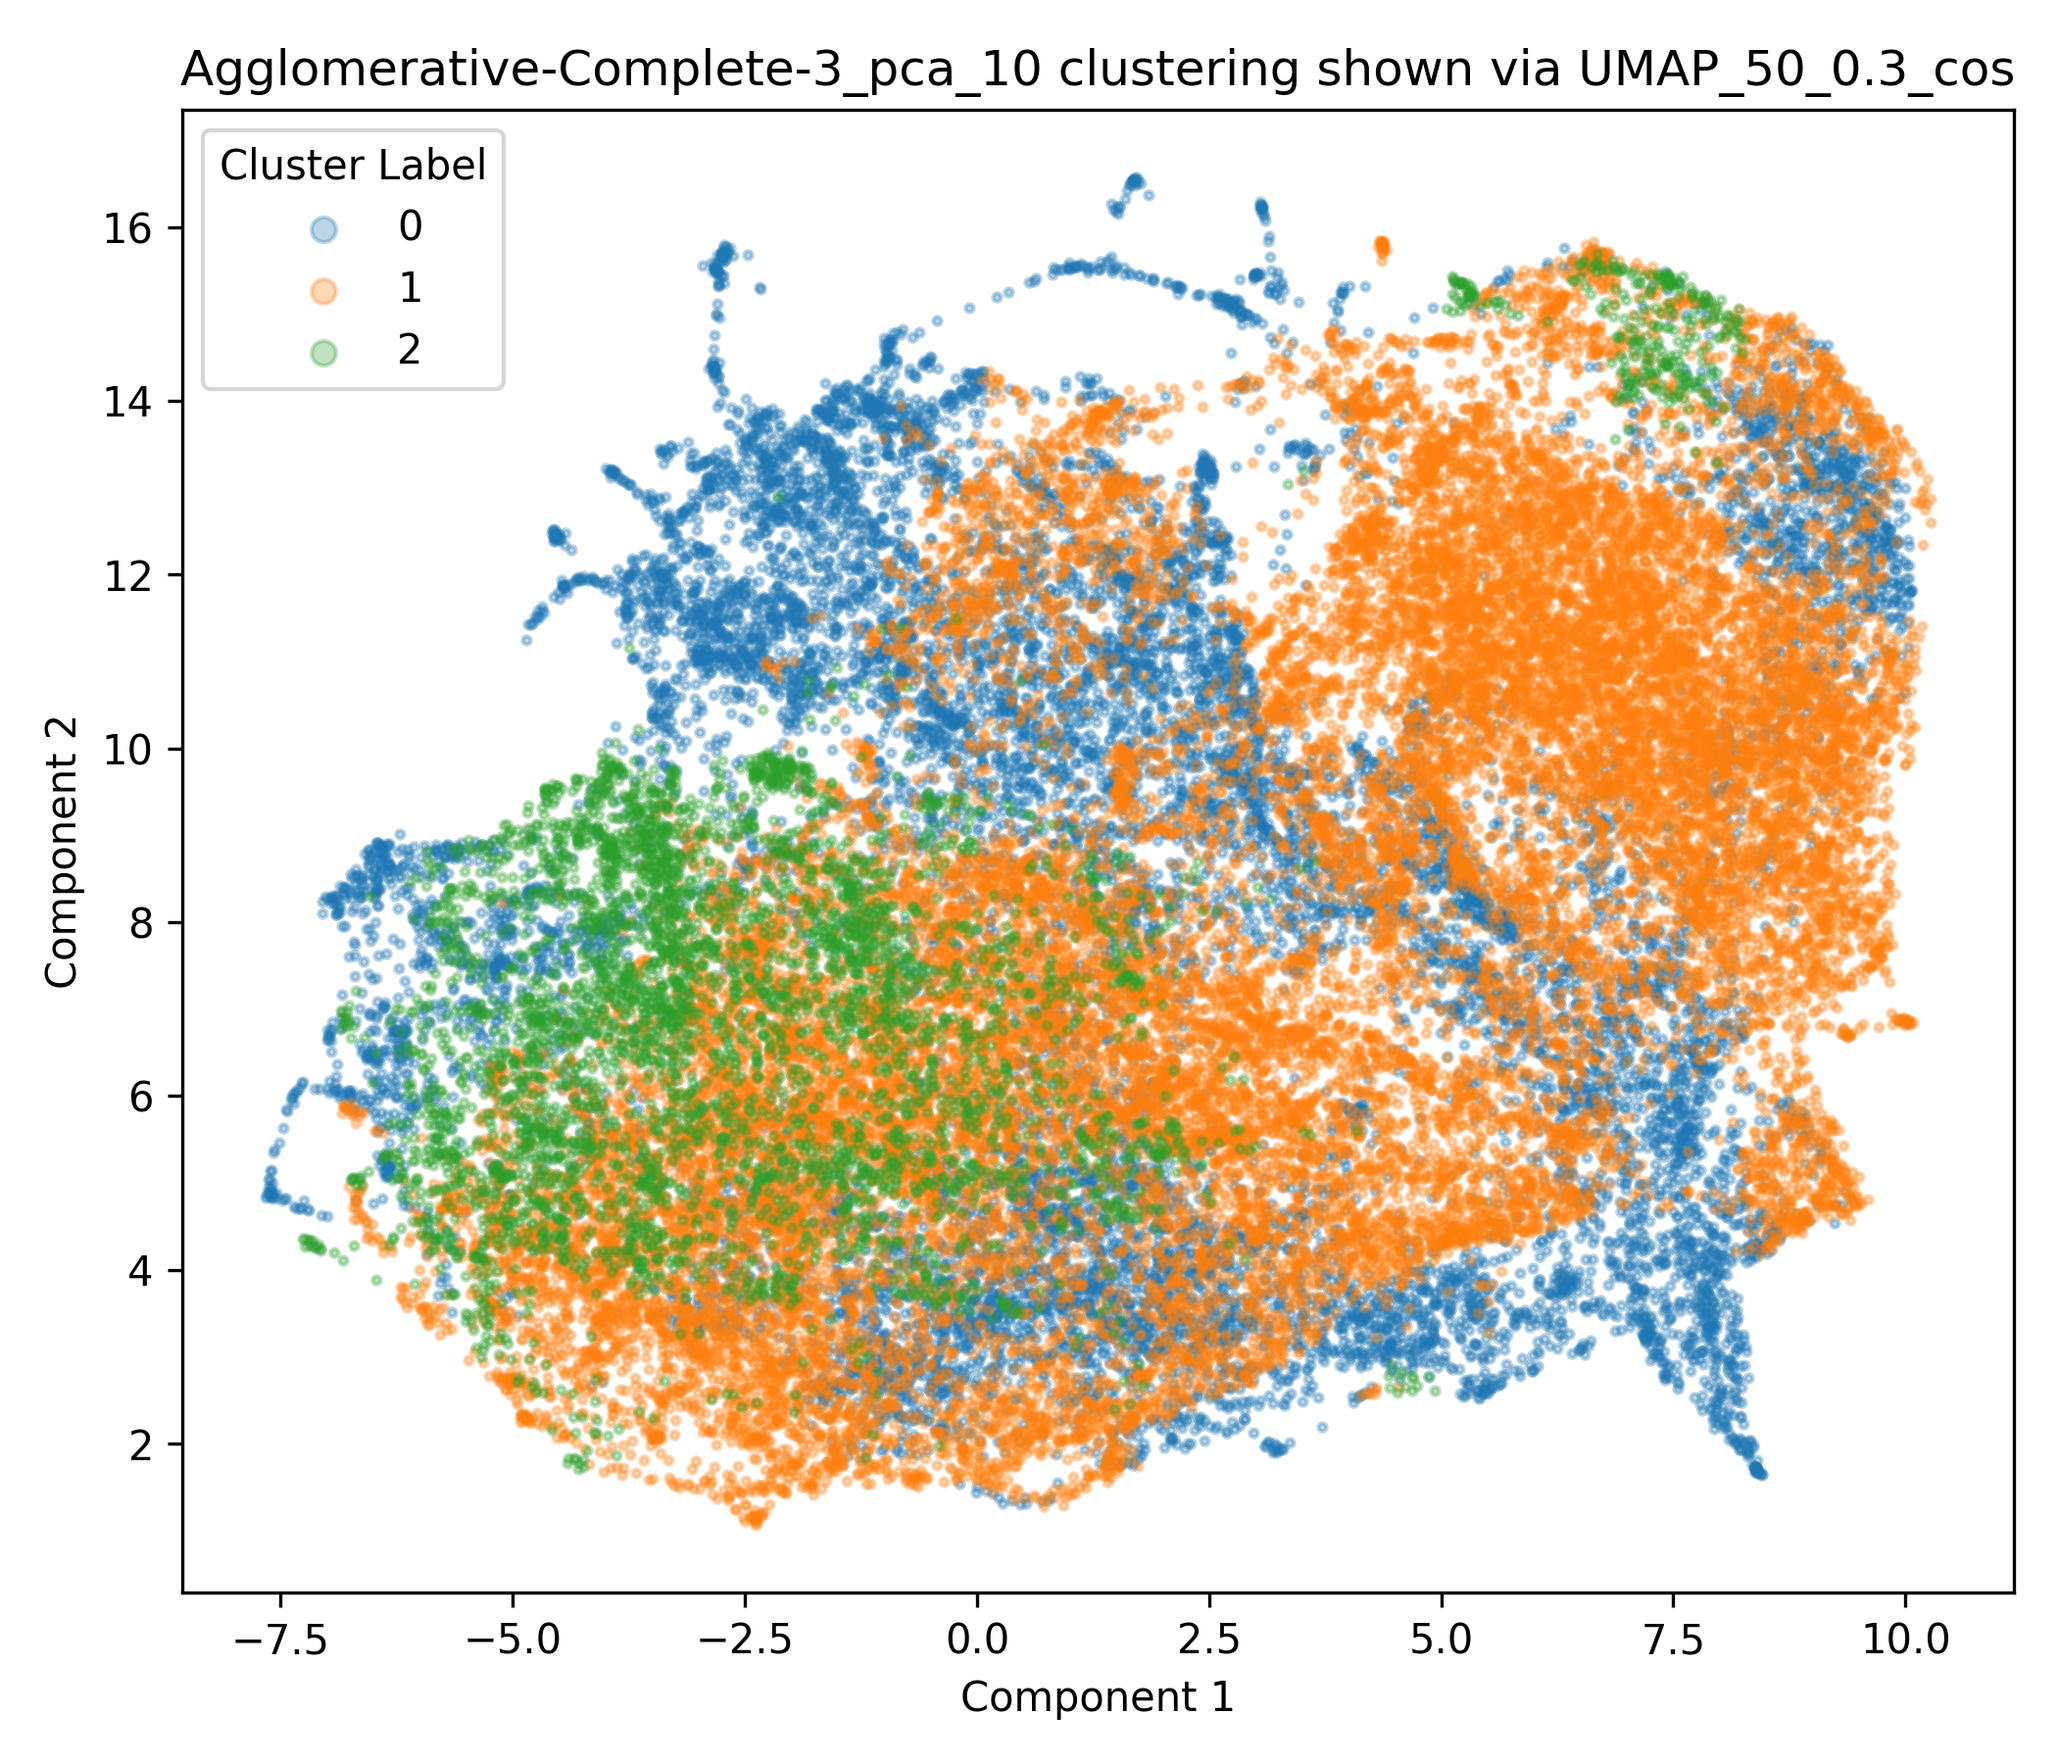
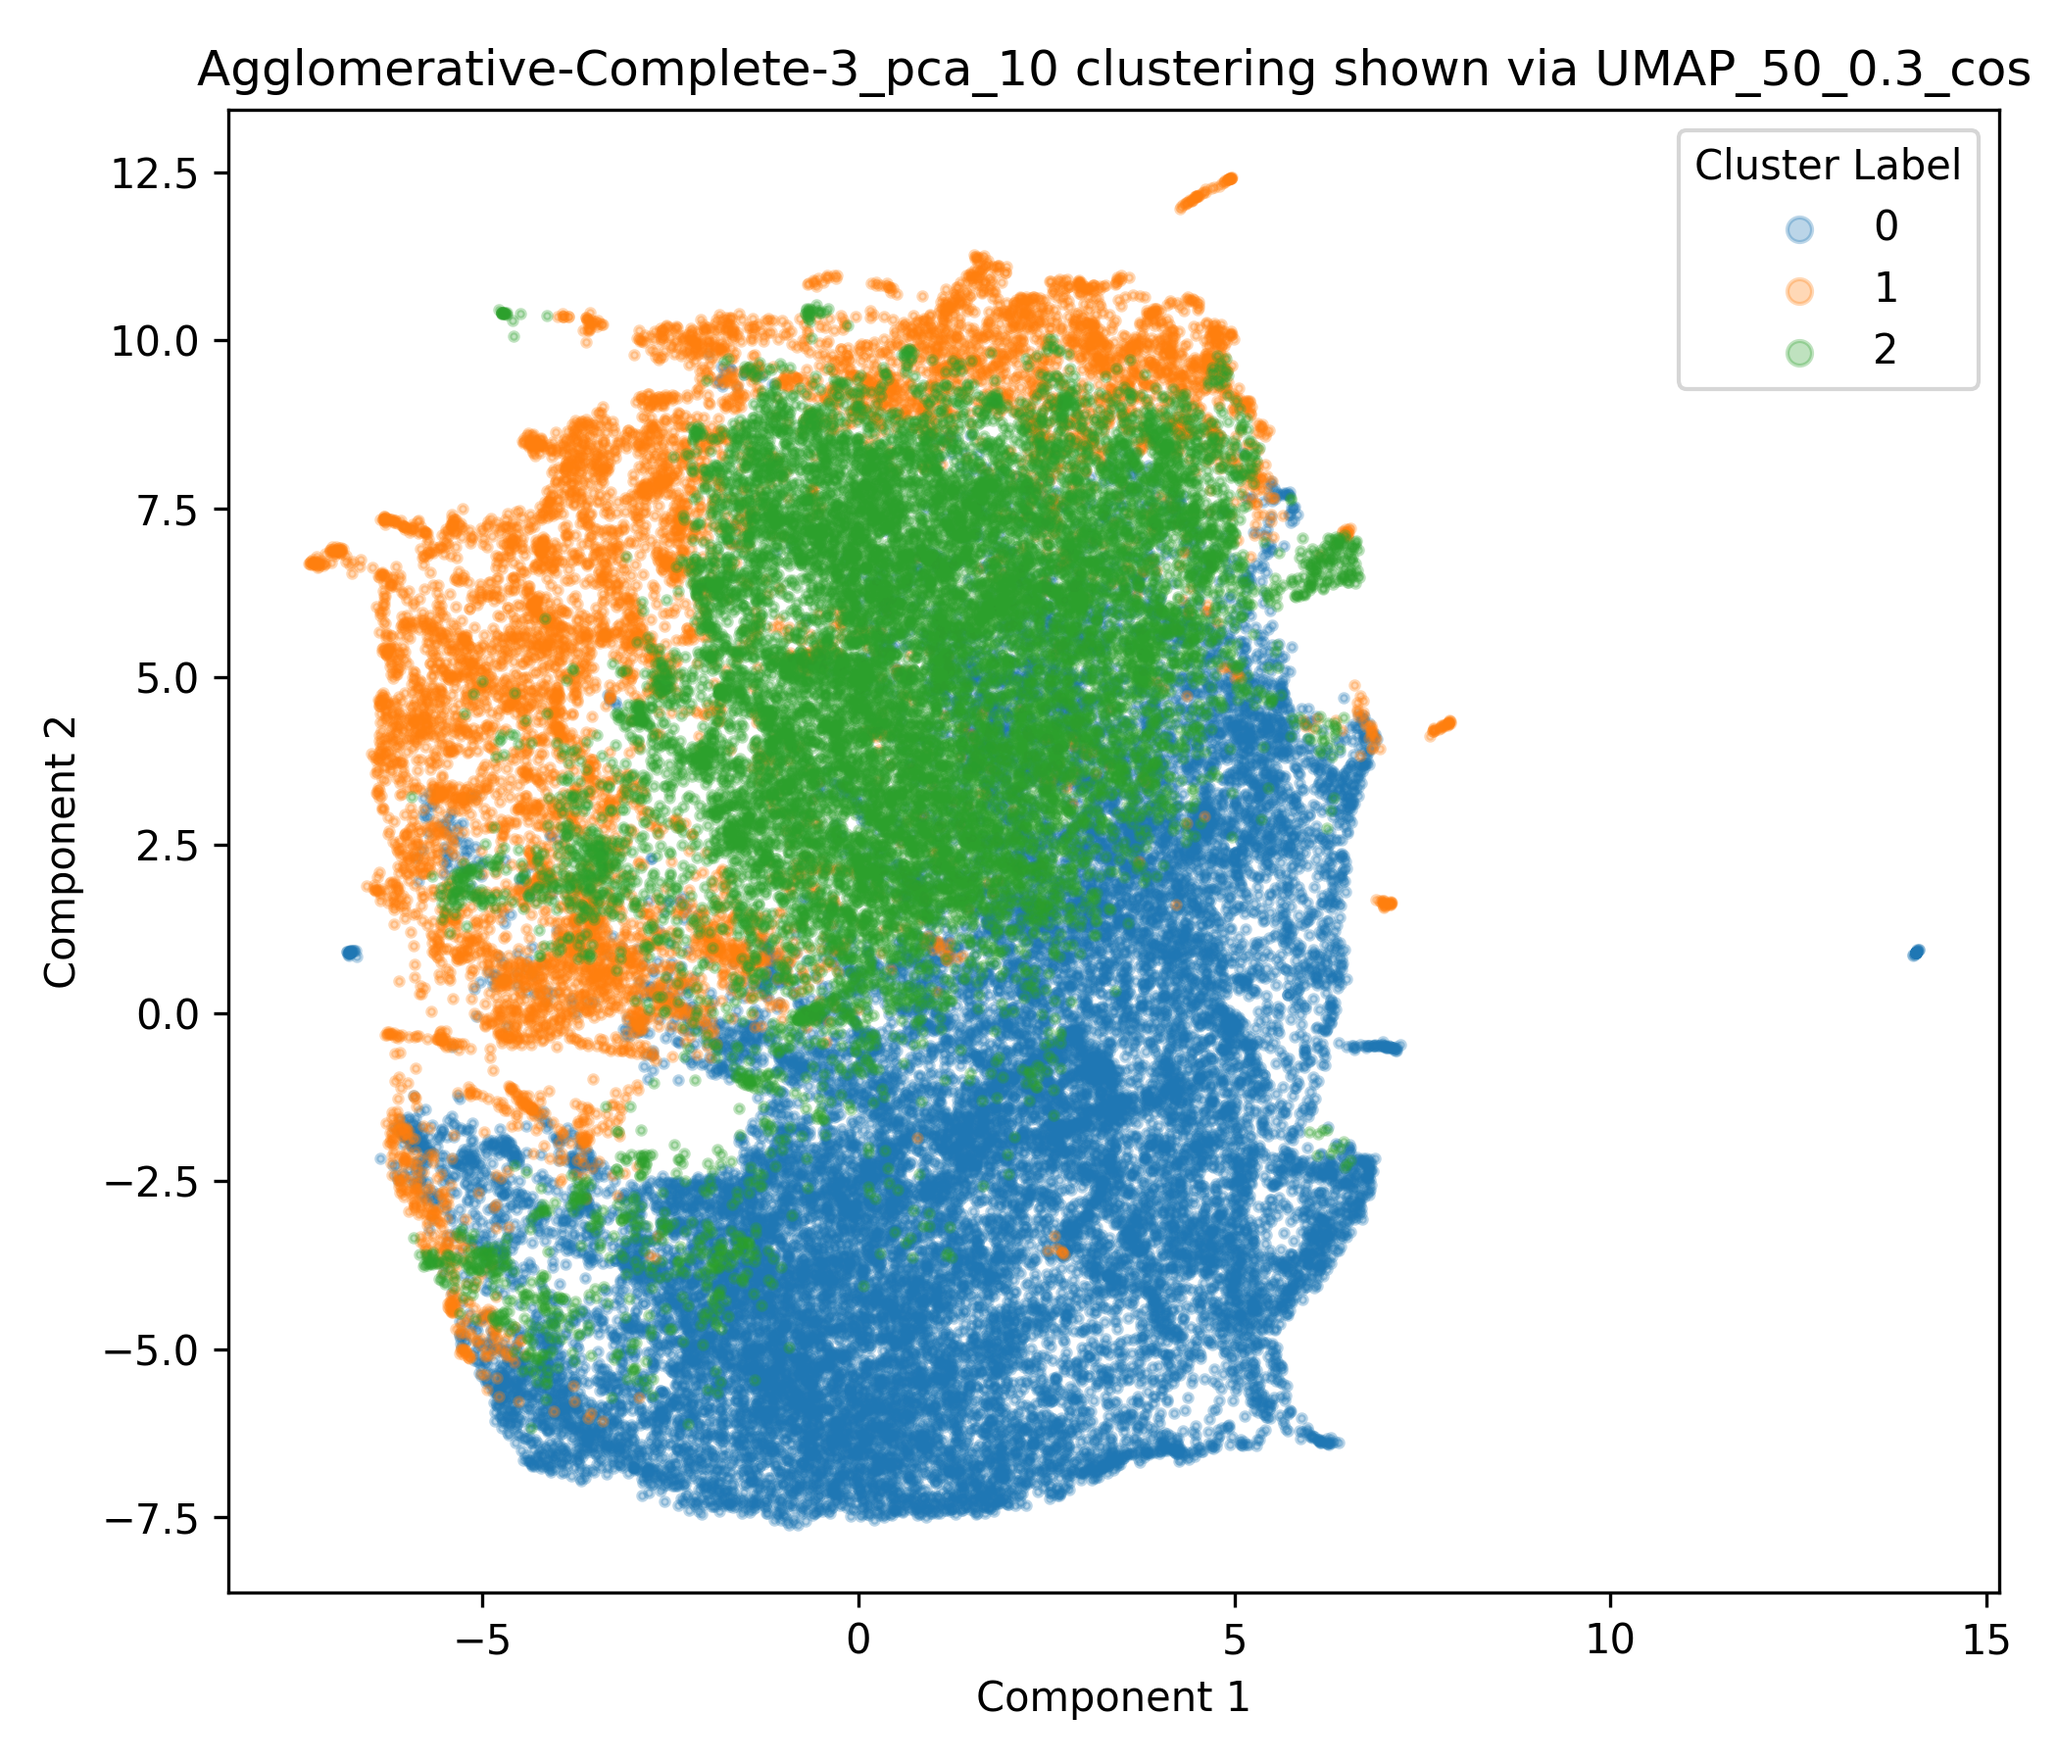
new clustering results

diff --git a/clustering.py b/clustering.py
@@ -176,7 +176,7 @@ def run_clustering_evaluation(label_mode, num_frames, cluster_configs, device, m
 
 if __name__ == '__main__':
     # ========== Configuration ==========
-    checkpoint_path = Path("/scratch/cv-course-group-5/models/training5/model_epoch25.pth")  # adjust if needed
+    checkpoint_path = Path("/scratch/cv-course-group-5/models/training5/model_epoch50.pth")  # adjust if needed
     device = torch.device("cuda:0" if torch.cuda.is_available() else "cpu")
     batch_size = 64
 
@@ -196,9 +196,9 @@ if __name__ == '__main__':
         "PCA_2D": PCA(n_components=2),
 
         # === t-SNE with Cosine Distance ===
-        "tSNE_perp30_cos": TSNE(n_components=2, perplexity=30, n_iter=1500,
+        "tSNE_perp30_cos": TSNE(n_components=2, perplexity=30, max_iter=1500,
                                 learning_rate=300, init="pca", metric="cosine", random_state=42),
-        "tSNE_perp50_cos": TSNE(n_components=2, perplexity=50, n_iter=1500,
+        "tSNE_perp50_cos": TSNE(n_components=2, perplexity=50, max_iter=1500,
                                 learning_rate=300, init="pca", metric="cosine", random_state=42),
 
         # === Cosine Metric ===
@@ -228,7 +228,7 @@ if __name__ == '__main__':
         val_list=val_list[:val_list_end],
         device=device,
         label_mode='dead_alive',
-        num_frames_labels=10,
+        num_frames_labels=0,
         batch_size=64,
         reducers=reducers
     )
@@ -237,7 +237,7 @@ if __name__ == '__main__':
 
     r = run_clustering_evaluation(
         label_mode='dead_alive',
-        num_frames=10,
+        num_frames=0,
         cluster_configs=cluster_2,
         device=device,
         model_path=checkpoint_path,
@@ -249,7 +249,7 @@ if __name__ == '__main__':
 
     r = run_clustering_evaluation(
         label_mode='dead_alive_dividing',
-        num_frames=10,
+        num_frames=0,
         cluster_configs=cluster_3,
         device=device,
         model_path=checkpoint_path,
